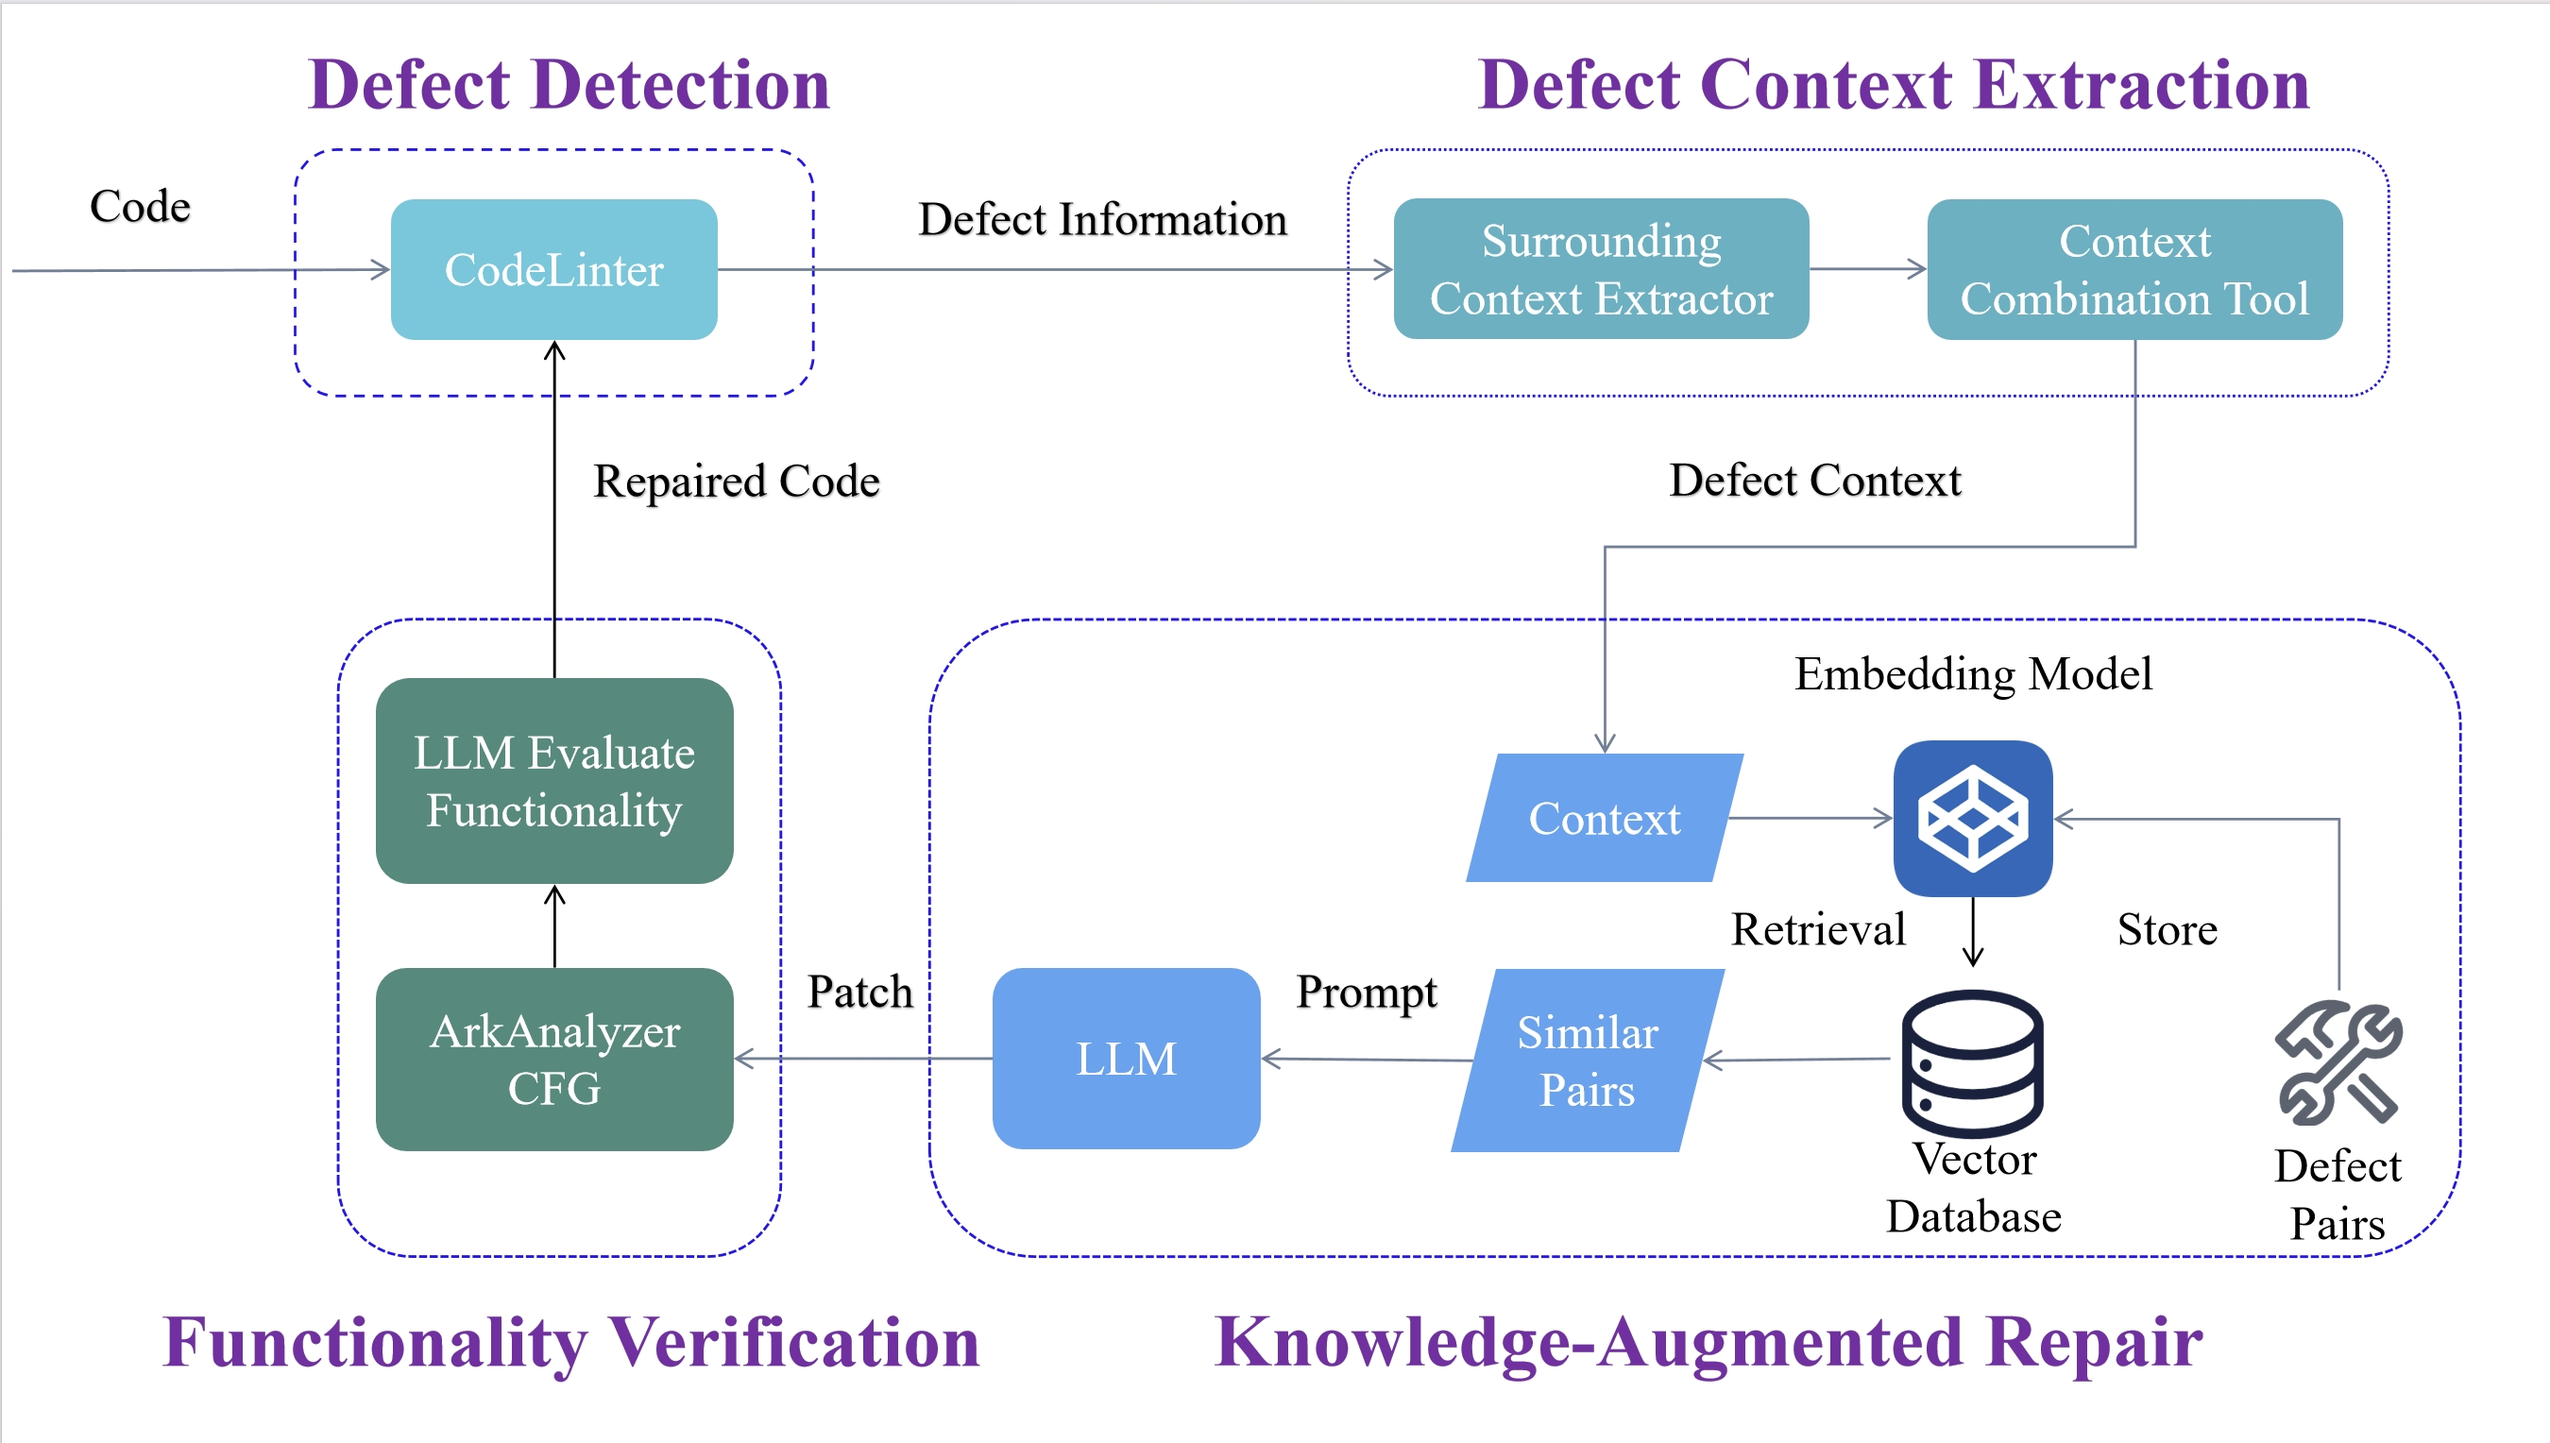
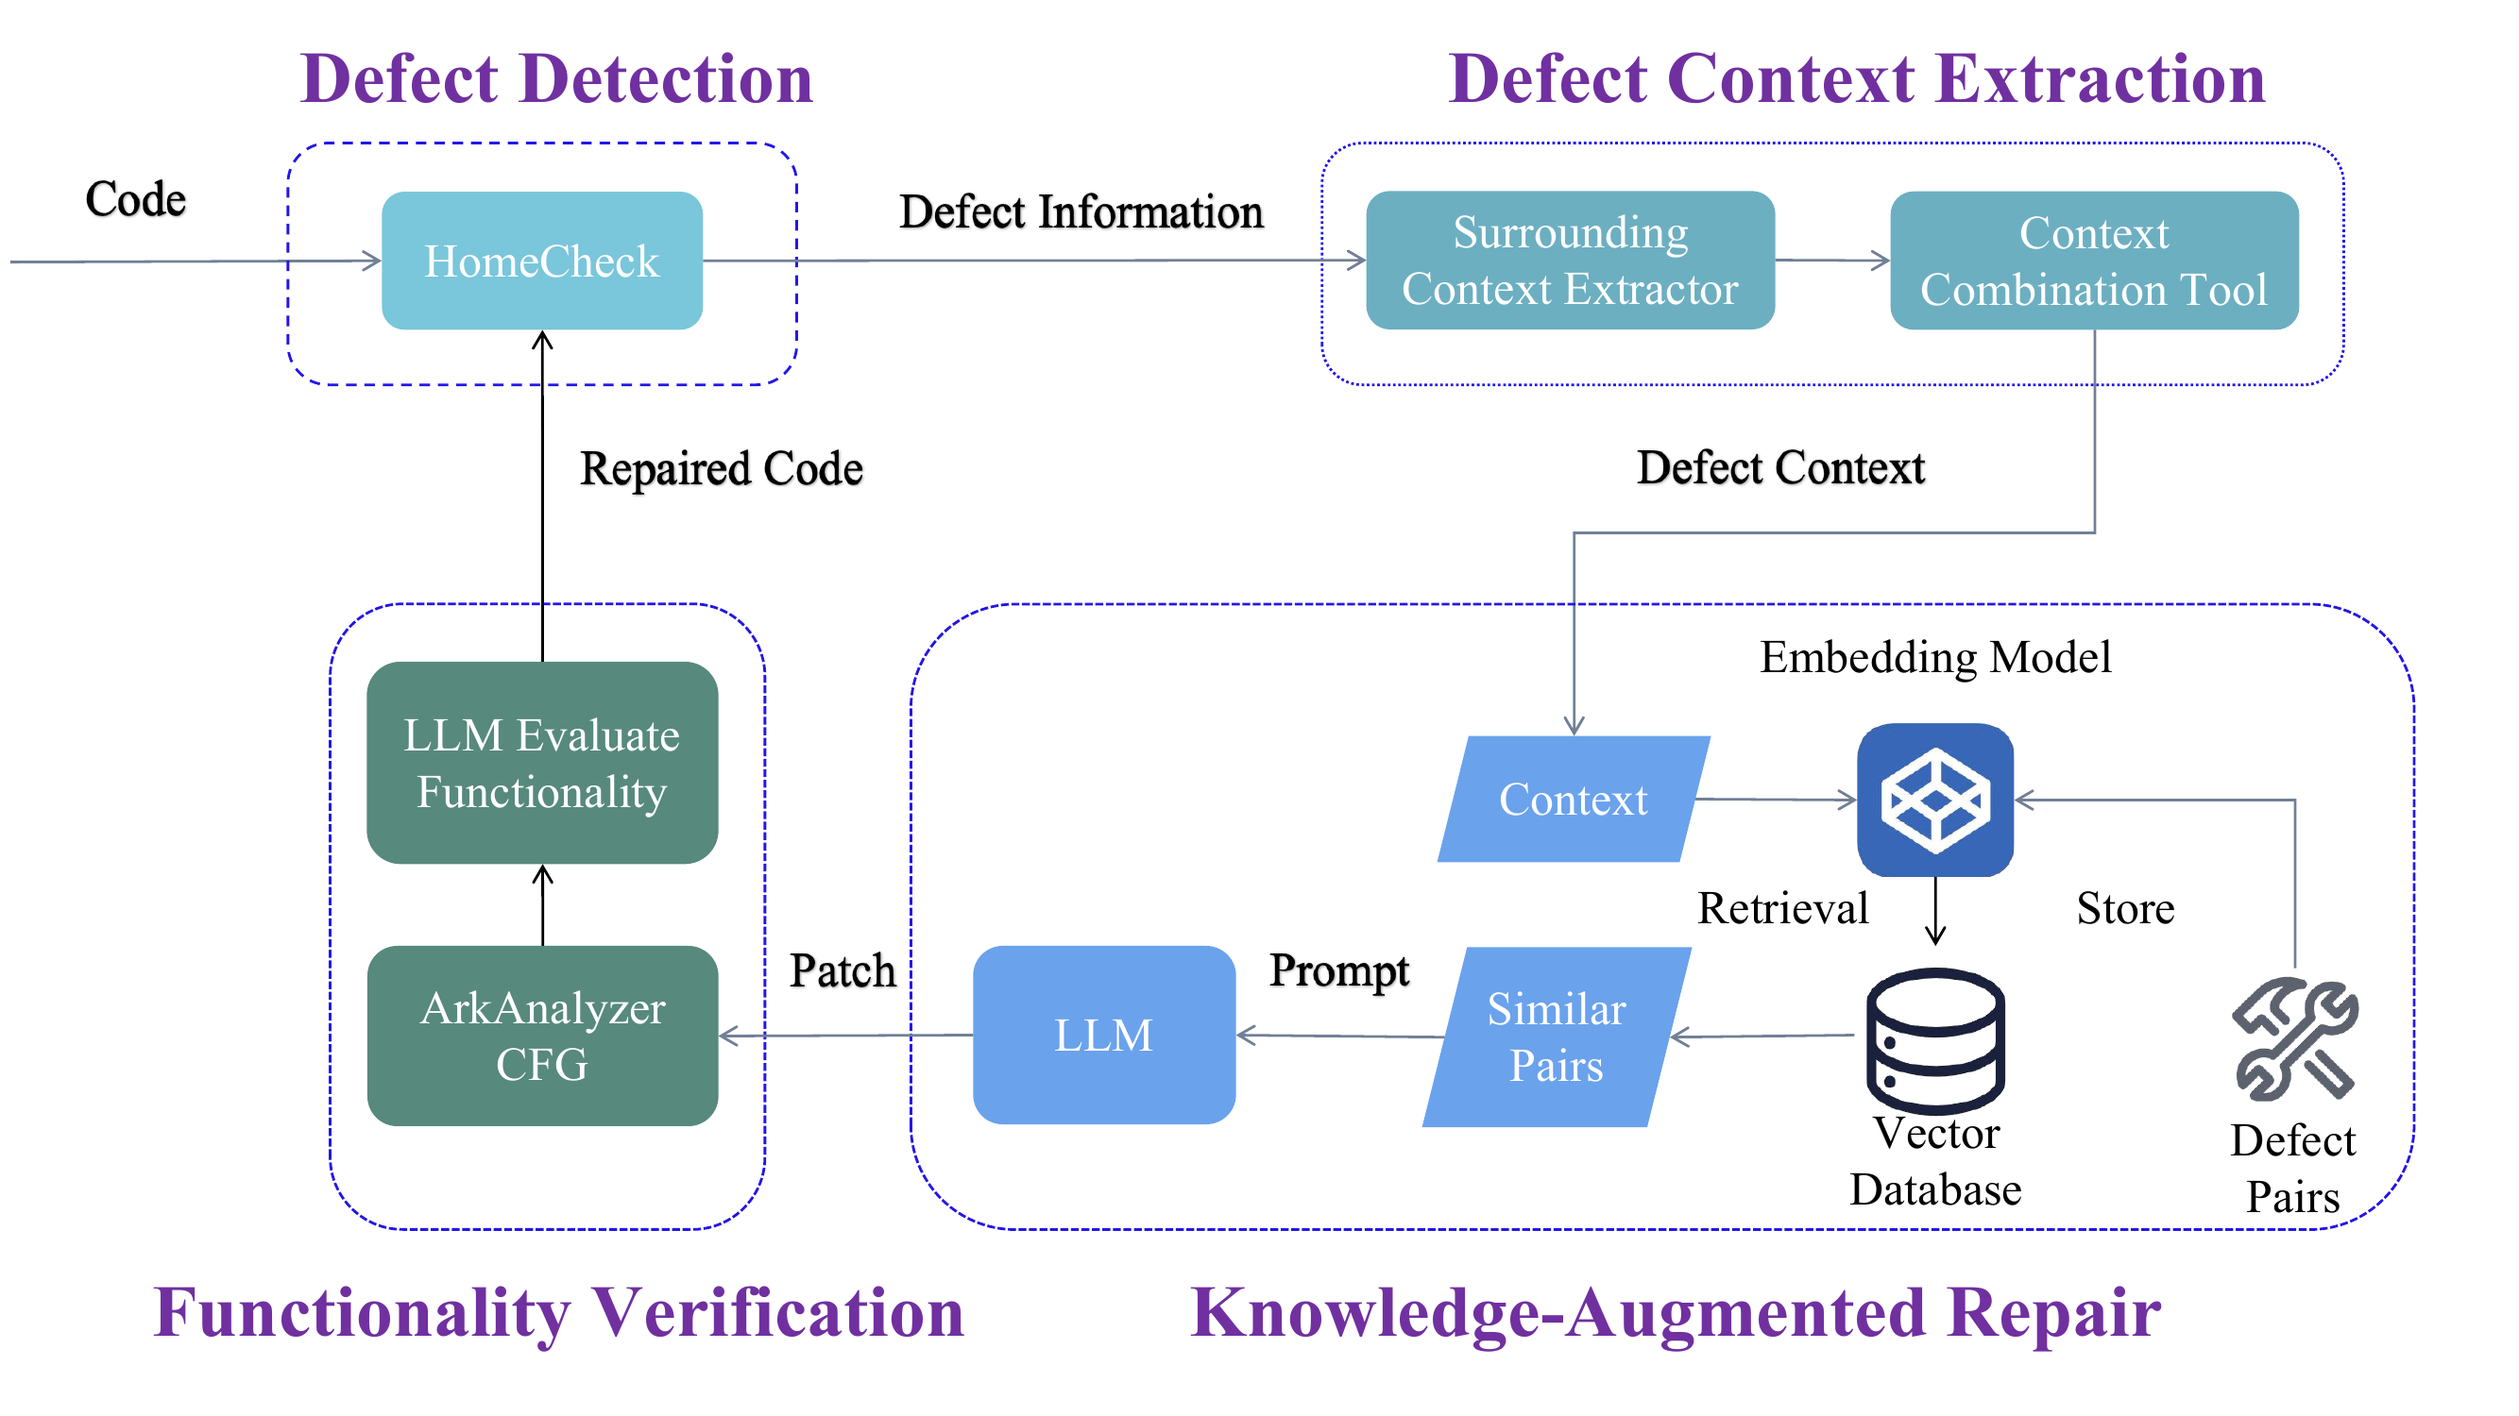
docs: adopt paper figures for framework, results, and ablation
Replace the auto-generated README charts with the higher-quality
PDF figures from the paper source:
  - framework.png  (HomeCheck pipeline overview)
  - llm_rounds.png (5-LLM remaining-defects curves across rounds)
  - table1_project_iterations.png (per-project progression)
  - table2_category_resolution.png (perf vs. security category stats)
  - table5_ablation.png (RAG/context/diff ablation table)

Also align README prose to use HomeCheck terminology (matching the
paper and the new framework figure) and rewrite the Results section
to narrate the new figures.

diff --git a/README.md b/README.md
@@ -75,12 +75,12 @@ And use [ArkAnalyzer](https://gitee.com/openharmony-sig/arkanalyzer) to obtain t
 
 We evaluate HapRepair on a curated benchmark of real-world OpenHarmony apps:
 
-- **Benchmark**: 8,664 performance/security defects across 100+ OpenHarmony projects, reported by Huawei CodeLinter and tracked in `revision/target_projects_haprepair.json`.
+- **Benchmark**: 8,664 performance/security defects across 35 OpenHarmony projects, detected by HomeCheck (the ArkAnalyzer-based static checker also ported from Huawei CodeLinter rules) and tracked in `revision/target_projects_haprepair.json`.
 - **Rule taxonomy**: 37 performance rules triggered across the benchmark; 15 (40.5%) are context-dependent and 22 (59.5%) are local/template-sufficient (see `summary/gpt-5.1_rq2_rule_type_context_ratio.md`).
-- **Pipeline**: (1) CodeLinter scans each project, (2) `get_surrounding_context.py` extracts the surrounding context for every finding, (3) `save_defects_to_database.py` indexes curated fix exemplars into a Pinecone vector store, (4) `get_prompt.py` retrieves the top-k nearest exemplars via RAG and assembles a repair prompt, and (5) `fix.py` / `fix_projects.py` drive an iterative multi-round repair loop with `output_handler.py` validating each patch.
+- **Pipeline**: (1) HomeCheck scans each project and emits performance/security findings, (2) `get_surrounding_context.py` extracts the surrounding context for every finding, (3) `save_defects_to_database.py` indexes curated fix exemplars into a Pinecone vector store, (4) `get_prompt.py` retrieves the top-k nearest exemplars via RAG and assembles a repair prompt, and (5) `fix.py` / `fix_projects.py` drive an iterative multi-round repair loop with `output_handler.py` validating each patch.
 - **Models evaluated**: gpt-5.1 (main), gpt-5-mini, deepseek-chat, qwen3-coder-plus, qwen3-30b-a3b.
 - **Ablation axes**: RAG top-k ∈ {0, 1, 3, 5}, diff strategy ∈ {difflib, gpt-diff, no-diff}, context scope ∈ {surrounding, full-file}.
-- **Protocol**: Up to 6 repair rounds per project; a defect is counted as fixed only when CodeLinter no longer reports it on the rewritten code.
+- **Protocol**: Up to 6 repair rounds per project; a defect is counted as fixed only when HomeCheck no longer reports it on the rewritten code.
 
 Reproduce the main table with:
 ```
@@ -89,31 +89,25 @@ python3 revision/code/delta_check_summarize.py --allow-missing-final-logs
 
 ## Results
 
-![framework](./fig/project_defects_bar.png)
+**Main result across LLMs.** All five models converge within five repair iterations. GPT-5.1 / GPT-5-mini / DeepSeek-Chat / Qwen3-Coder-Plus drop from 8,664 initial defects to 236 / 166 / 247 / 353 respectively (**97–98% resolution**); Qwen3-30B-A3B plateaus higher at 1,348 (**84%**), underscoring that model capacity still matters for hard, context-heavy rules.
 
-**Main result (gpt-5.1, 5 rounds).** HapRepair eliminates **8,428 / 8,664 (97.3%)** of the reported defects. After applying a conservative *delta-check* that filters any "resolved" finding plausibly attributable to large-scale code deletion, the net fix rate is still **96.11% (8,327/8,664)** — confirming that the gains come from genuine repairs rather than code removal (see `summary/gpt-5.1_delta_check.md`).
+![Remaining defects across repair rounds](./fig/llm_rounds.png)
 
-**Rule category coverage.**
+**Category-level resolution (gpt-5.1).** Performance rules drop from 8,150 → 234 (97%) and security rules from 514 → 2 (100%) after five iterations.
 
-![rule category pie](./fig/rule_category_pie.png)
-![rule top10 bar](./fig/rule_top10_bar.png)
+![Category resolution across iterations](./fig/table2_category_resolution.png)
 
-**Ablation study (round-1 remaining defects, lower is better).**
+**Per-project progression (sampled).** HapRepair wipes out all 36 defects in PullLinking on round 1, takes flutter_embedding from 123 → 1, and drives the overall 35-project benchmark from 8,664 → 236 (97%).
 
-| Setting                       | Remaining defects |
-| ----------------------------- | ----------------- |
-| RAG top-1 (default)           | 505               |
-| RAG top-3                     | **444**           |
-| RAG top-5                     | 1,118             |
-| No RAG                        | 5,052             |
-| Diff = gpt-diff               | 476               |
-| Diff = none                   | 1,932             |
-| Context = full file           | 2,870             |
-| Context = surrounding (default) | **505**         |
+![Per-project iterations](./fig/table1_project_iterations.png)
 
-Key takeaways: RAG is the dominant factor (no-RAG inflates remaining defects by **10×**); top-3 retrieval slightly beats top-1, while top-5 introduces noise; surrounding-context significantly outperforms full-file context; and supplying a structural diff matters. Full breakdown: `summary/ablation/ablation_summary_gpt-5.1_round1.md`.
+**Delta-check against "fix-by-deletion".** A conservative audit filtering every resolved finding plausibly attributable to large-scale code deletion still leaves a net fix rate of **96.11% (8,327/8,664)** — confirming the gains come from real repairs, not code removal (`summary/gpt-5.1_delta_check.md`).
 
-![results](./fig/results.png)
+**Ablation study (gpt-5.1, round 1).** RAG is the dominant factor; Top-3 retrieval is the sweet spot; surrounding context beats full-file; and providing a structural diff is essential.
+
+![Ablation study](./fig/table5_ablation.png)
+
+Full breakdown: `summary/ablation/ablation_summary_gpt-5.1_round1.md`. The auto-generated per-project bars and top-10 rule charts (`scripts/plot_readme_figures.py`) provide an additional view of the same data.
 ## Important Notes
 
 - Requires configuration of relevant API keys
